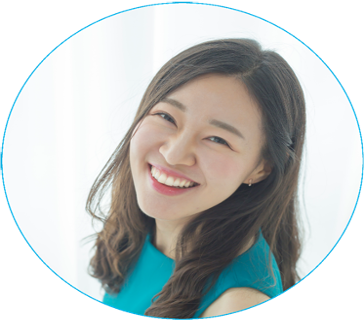
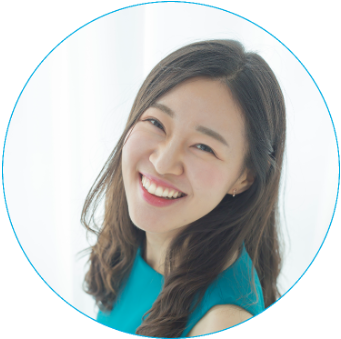
refactor: modify member image

diff --git a/css/components/member.css b/css/components/member.css
@@ -22,9 +22,6 @@
   width: 80%;
   height: auto;
   margin-bottom: 4rem;
-  background-color: #fff;
-  border-radius: var(--border-radius);
-  box-shadow: var(--box-shadow);
 }
 
 .member__text__row {
